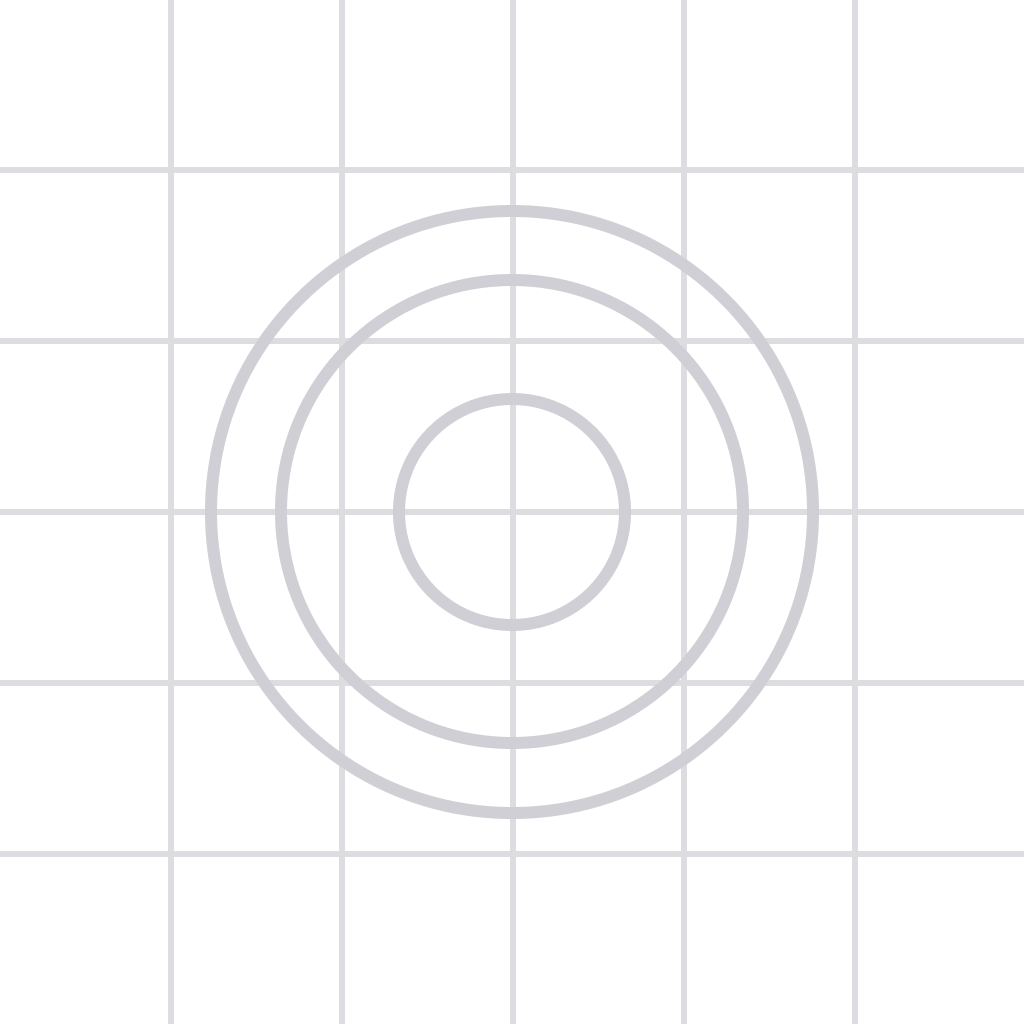
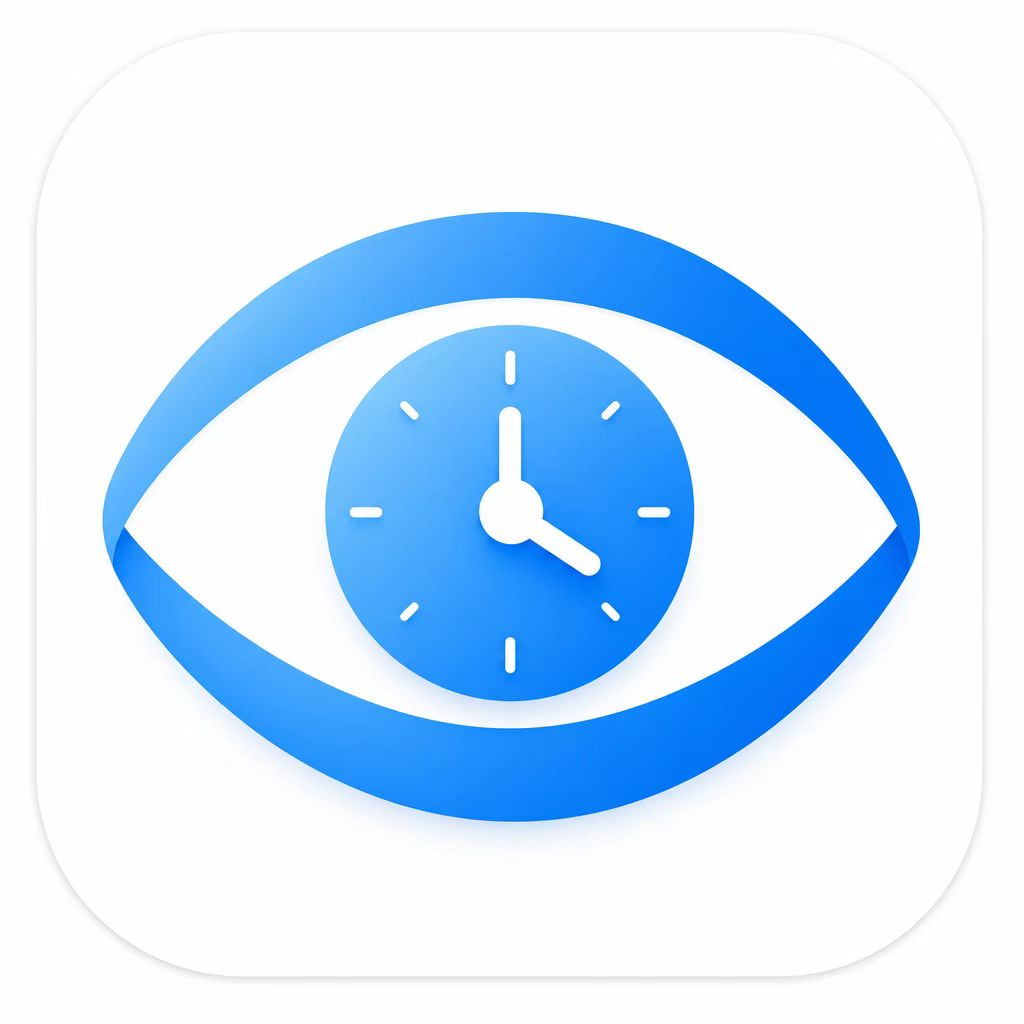
fix: 禁用 edgeToEdge 修复打包后界面放大 + Modal 安全区适配
禁用 edgeToEdgeEnabled 解决 standalone/dev build 界面放大问题，
编辑活动和编辑待办 Modal 添加 SafeAreaView 防止按钮被状态栏遮挡，
底部导航栏改用 useSafeAreaInsets 动态计算安全区高度。

diff --git a/app/(tabs)/_layout.tsx b/app/(tabs)/_layout.tsx
@@ -4,13 +4,15 @@ import { Tabs } from 'expo-router';
 import { Ionicons } from '@expo/vector-icons';
 import { Colors, F, S } from '../../constants/theme';
 import { useRouter, usePathname } from 'expo-router';
+import { useSafeAreaInsets } from 'react-native-safe-area-context';
 
 function CustomTabBar() {
   const router = useRouter();
   const pathname = usePathname();
+  const insets = useSafeAreaInsets();
 
   return (
-    <View style={s.bar}>
+    <View style={[s.bar, { paddingBottom: Math.max(insets.bottom, 8), height: 52 + Math.max(insets.bottom, 8) }]}>
       <TouchableOpacity style={s.tabBtn} onPress={() => router.navigate('/')} activeOpacity={0.7}>
         <Ionicons name="today-outline" size={24} color={pathname === '/' ? Colors.primary : Colors.hint} />
         <Text style={[s.tabLabel, pathname === '/' && s.tabLabelActive]}>今天</Text>
@@ -48,8 +50,6 @@ const s = StyleSheet.create({
     backgroundColor: Colors.surface,
     borderTopColor: Colors.divider,
     borderTopWidth: 0.5,
-    height: 80,
-    paddingBottom: 28,
     paddingTop: 8,
     alignItems: 'center',
     justifyContent: 'space-between',

diff --git a/components/EditRecordModal.tsx b/components/EditRecordModal.tsx
@@ -1,5 +1,6 @@
 import React, { useState, useEffect } from 'react';
 import { View, Text, TextInput, StyleSheet, TouchableOpacity, Modal, ScrollView, Alert } from 'react-native';
+import { SafeAreaView } from 'react-native-safe-area-context';
 import { Ionicons } from '@expo/vector-icons';
 import { Colors, S, R, F, CategoryIcons } from '../constants/theme';
 import { Record, updateRecord, getCustomCategories } from '../lib/db';
@@ -51,7 +52,7 @@ export default function EditRecordModal({ record, visible, onClose, onSaved }: P
 
   return (
     <Modal visible={visible} animationType="slide" presentationStyle="pageSheet" onRequestClose={onClose}>
-      <View style={s.page}>
+      <SafeAreaView style={s.page} edges={['top']}>
         <View style={s.header}>
           <TouchableOpacity onPress={onClose}><Text style={s.cancelBtn}>取消</Text></TouchableOpacity>
           <Text style={s.title}>编辑活动</Text>
@@ -82,7 +83,7 @@ export default function EditRecordModal({ record, visible, onClose, onSaved }: P
           <Text style={s.label}>在哪</Text>
           <TextInput style={s.input} value={location} onChangeText={setLocation} maxLength={30} placeholder="可选" placeholderTextColor={Colors.hint} />
         </ScrollView>
-      </View>
+      </SafeAreaView>
     </Modal>
   );
 }

diff --git a/components/EditTodoModal.tsx b/components/EditTodoModal.tsx
@@ -1,5 +1,6 @@
 import React, { useState, useEffect } from 'react';
 import { View, Text, TextInput, StyleSheet, TouchableOpacity, Modal, ScrollView, Alert, Platform, Switch } from 'react-native';
+import { SafeAreaView } from 'react-native-safe-area-context';
 import { Ionicons } from '@expo/vector-icons';
 import { Colors, S, R, F } from '../constants/theme';
 import { Todo, updateTodo } from '../lib/db';
@@ -74,7 +75,7 @@ export default function EditTodoModal({ todo, visible, onClose, onSaved }: Props
 
   return (
     <Modal visible={visible} animationType="slide" presentationStyle="pageSheet" onRequestClose={onClose}>
-      <View style={s.page}>
+      <SafeAreaView style={s.page} edges={['top']}>
         <View style={s.header}>
           <TouchableOpacity onPress={onClose}><Text style={s.cancelBtn}>取消</Text></TouchableOpacity>
           <Text style={s.title}>编辑待办</Text>
@@ -117,7 +118,7 @@ export default function EditTodoModal({ todo, visible, onClose, onSaved }: Props
             </>
           )}
         </ScrollView>
-      </View>
+      </SafeAreaView>
     </Modal>
   );
 }